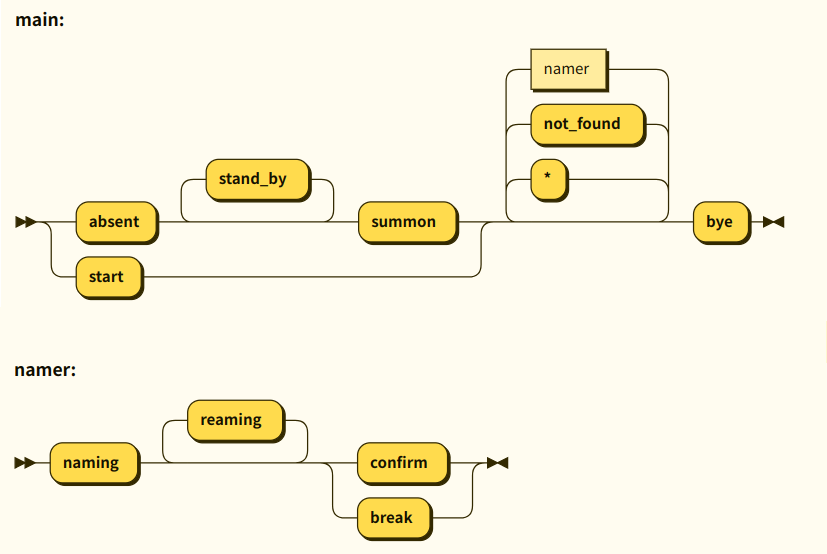
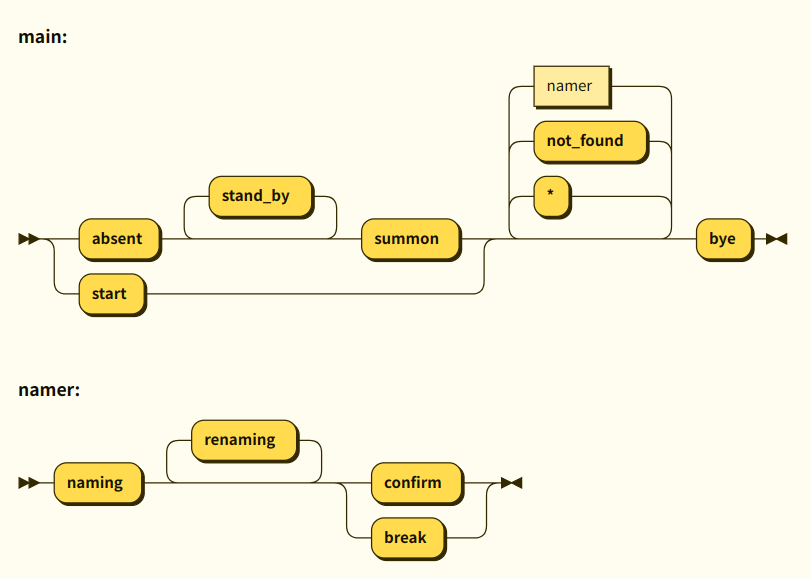
bug & typo fix

diff --git a/src/components/Chatbot/engine/naming-state-machine.js b/src/components/Chatbot/engine/naming-state-machine.js
@@ -19,8 +19,8 @@ naming state machine
 -------------------------------------------------------------
 
 main::= ('start'|('absent' 'stand_by'* 'summon'))
-        ('*'|'not_found'|'naming')* 'bye'
-naming::='naming2' 'reaming'* ('confirm'|'break')
+        ('*'|'not_found'|'namer')* 'bye'
+namer::='naming' 'renaming'* ('confirm'|'break')
 
 ------------------------------------------------------------
 
@@ -119,7 +119,7 @@ export default class NamingStateMachine extends BasicStateMachine {
     }
     
     // 通常の処理
-     if(pos === 'renaming' || pos === 'naming2'){
+     if(pos === 'renaming' || pos === 'naming'){
       db.setItem('{LAST}', code.harvests[0]);
      }
 
